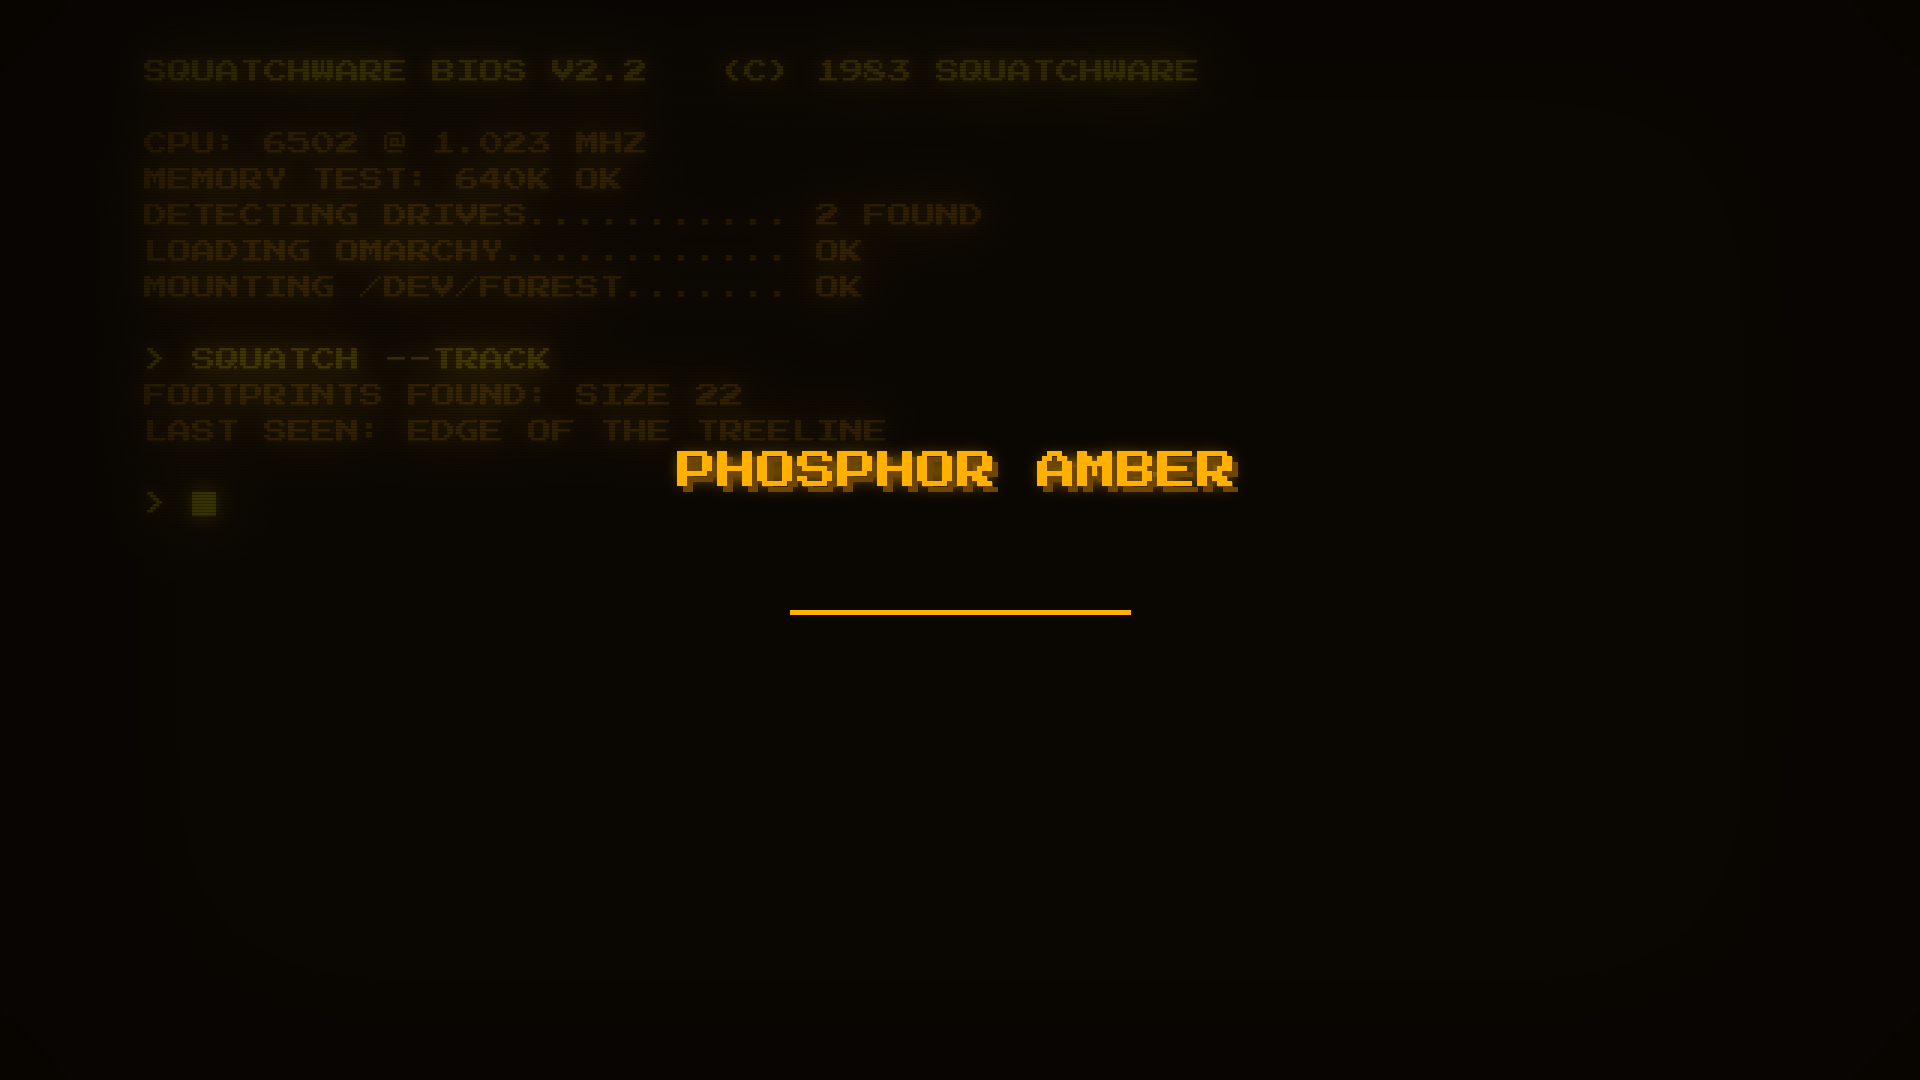
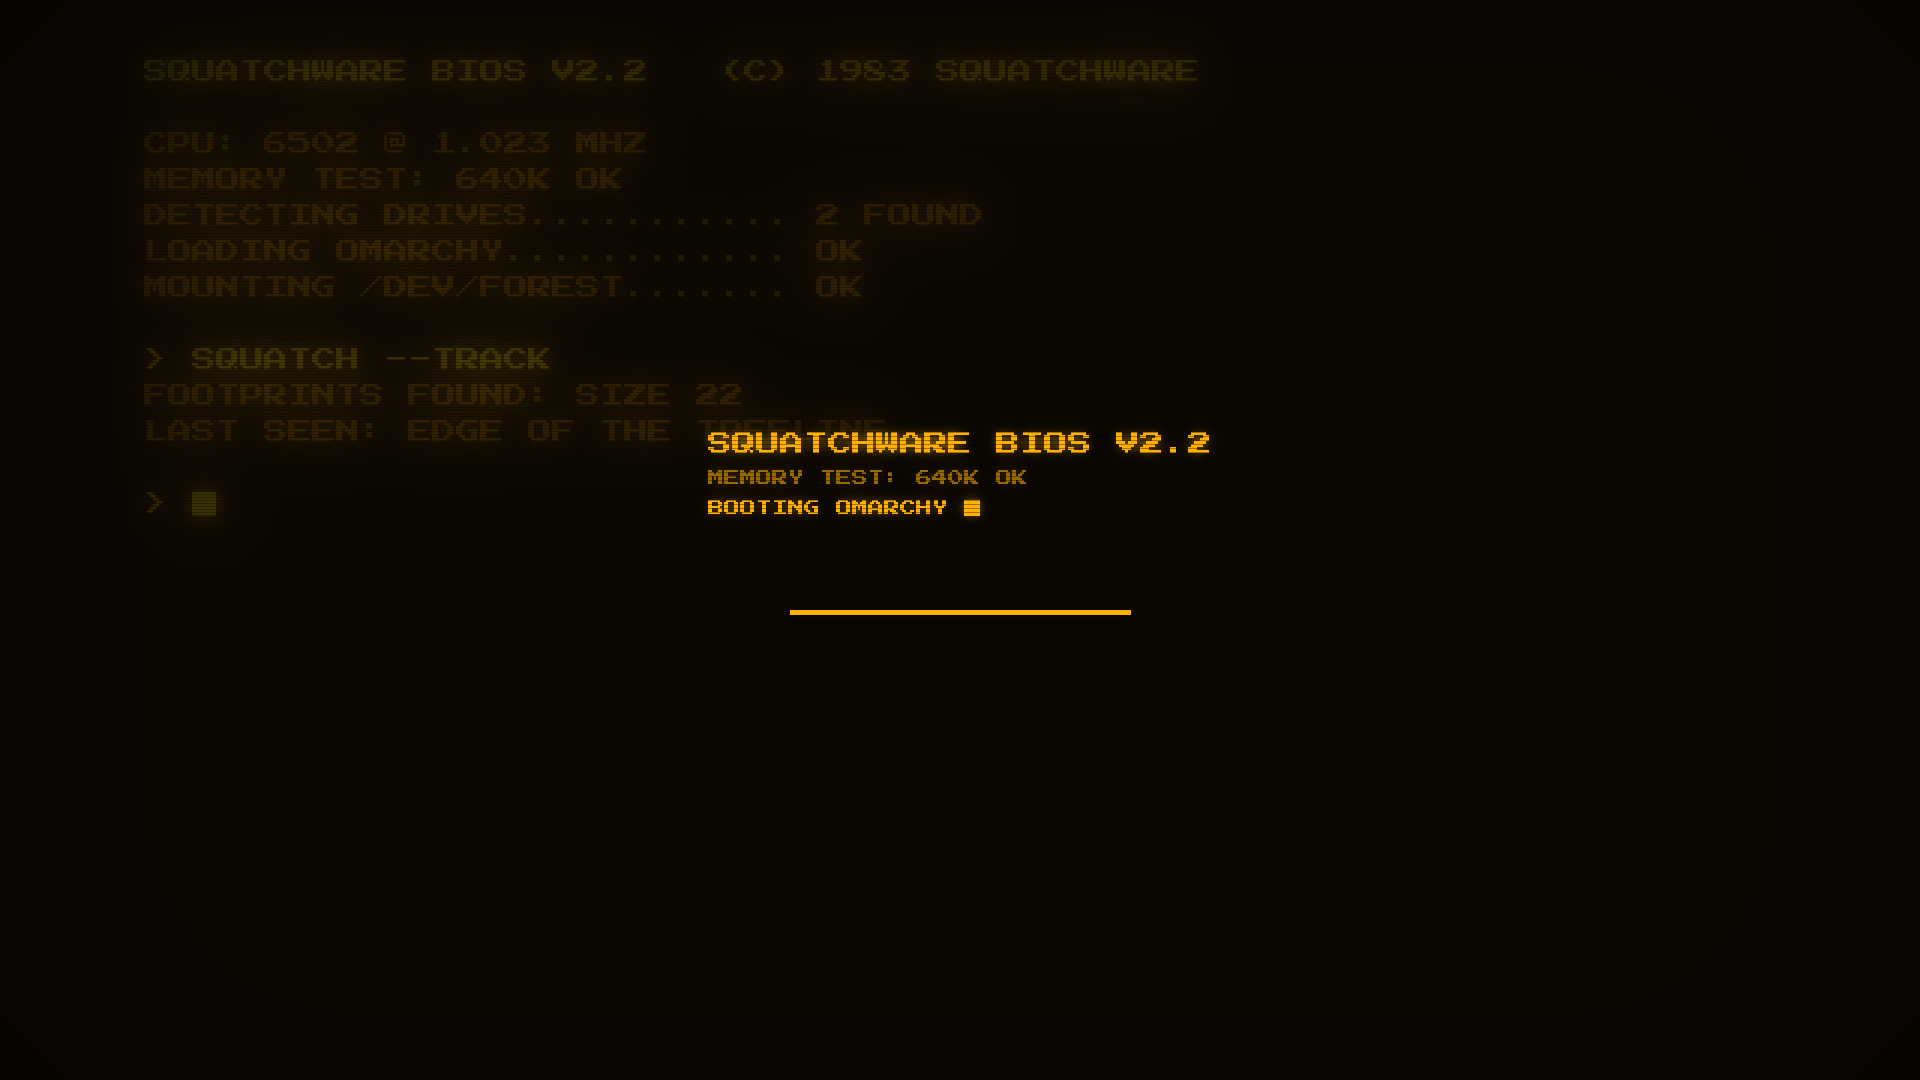
Boot splash, screensaver and extras

Changed region(s): [[0.3438, 0.3972, 0.6562, 0.4889]]

diff --git a/README.md b/README.md
@@ -21,7 +21,21 @@ omarchy theme install https://github.com/squatchware/omarchy-phosphor-amber-them
 - **Wallpapers**, drawn at the machine's own resolution and scaled up with no smoothing:
 - `01-boot.jpg`
 - `02-treeline.jpg`
-- **Lock screen** wordmark (`unlock.png`).
+- **Boot splash and lock screen** (`unlock.png`): the machine's own start-up screen.
+- **Screensaver** art (`screensaver.txt`), animated by Omarchy's screensaver.
+
+## Extras
+
+The screensaver and boot splash need one command each (the second asks for sudo):
+
+```sh
+~/.config/omarchy/themes/phosphor-amber/extras/install-extras.sh          # screensaver
+~/.config/omarchy/themes/phosphor-amber/extras/install-extras.sh --boot   # + boot splash
+```
+
+The screensaver hook is shared by every Squatchware theme: it uses the active theme's art and
+puts your own back when you switch to a theme without any. The boot splash stays until you run
+`omarchy plymouth set by theme <name>` for another theme.
 
 ## The rest of the pack
 
